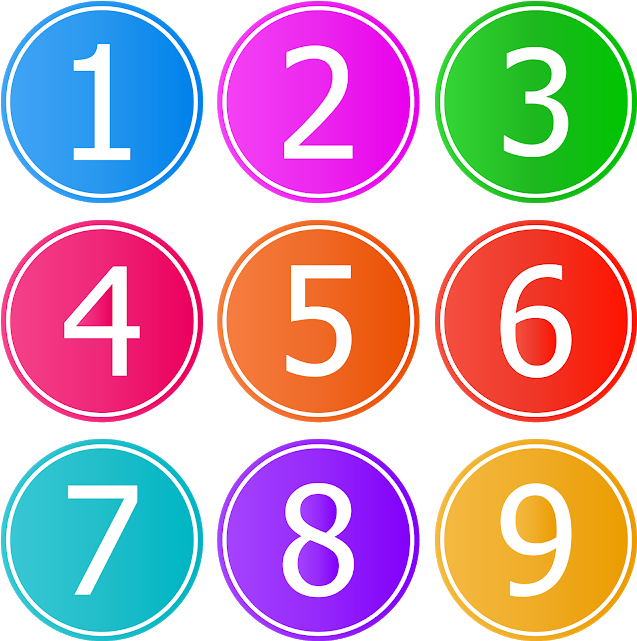
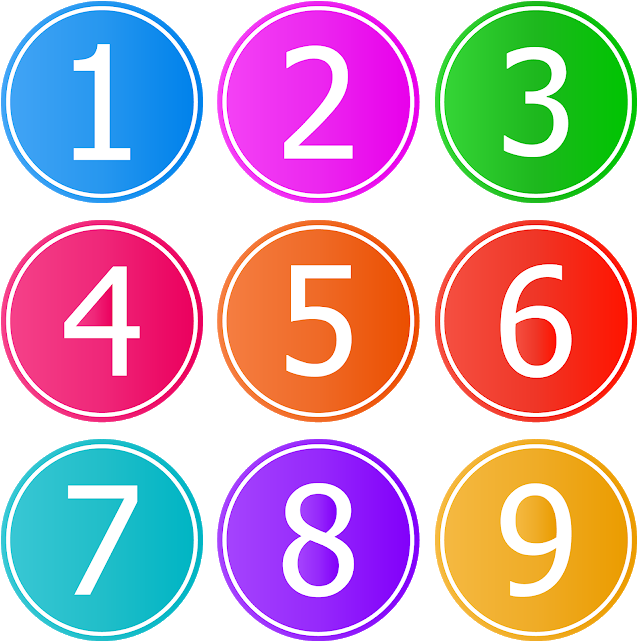
Make the bindless sample compile

diff --git a/Bindless/Sources/texture.c b/Bindless/Sources/texture.c
@@ -8,6 +8,7 @@
 
 #include <assert.h>
 #include <stdlib.h>
+#include <string.h>
 
 #ifdef SCREENSHOT
 #include "../../screenshot.h"
@@ -18,7 +19,7 @@ static kope_g5_command_list list;
 static vertex_in_buffer vertices;
 static kope_g5_buffer indices;
 static kope_g5_buffer image_buffer;
-static kope_g5_texture texture;
+static kope_g5_texture textures[9];
 static kope_g5_sampler sampler;
 static kope_g5_buffer constants;
 static everything_set everything;
@@ -45,15 +46,17 @@ static void update(void *data) {
 	constants_type_buffer_unlock(&constants);
 
 	if (first_update) {
-		kope_g5_image_copy_buffer source = {0};
-		source.buffer = &image_buffer;
-		source.bytes_per_row = kope_g5_device_align_texture_row_bytes(&device, 250 * 4);
+		for (int i = 0; i < 9; ++i) {
+			kope_g5_image_copy_buffer source = {0};
+			source.buffer = &image_buffer;
+			source.bytes_per_row = kope_g5_device_align_texture_row_bytes(&device, 250 * 4);
 
-		kope_g5_image_copy_texture destination = {0};
-		destination.texture = &texture;
-		destination.mip_level = 0;
+			kope_g5_image_copy_texture destination = {0};
+			destination.texture = &textures[i];
+			destination.mip_level = 0;
 
-		kope_g5_command_list_copy_buffer_to_texture(&list, &source, &destination, 250, 250, 1);
+			kope_g5_command_list_copy_buffer_to_texture(&list, &source, &destination, 639 / 3, 642 / 3, 1);
+		}
 		first_update = false;
 	}
 
@@ -106,26 +109,28 @@ int kickstart(int argc, char **argv) {
 	kope_g5_device_create_command_list(&device, &list);
 
 	kope_g5_buffer_parameters buffer_parameters = {0};
-	buffer_parameters.size = kope_g5_device_align_texture_row_bytes(&device, 250 * 4) * 250;
+	buffer_parameters.size = kope_g5_device_align_texture_row_bytes(&device, 639 * 4) * 642;
 	buffer_parameters.usage_flags = KOPE_G5_BUFFER_USAGE_CPU_WRITE;
 	kope_g5_device_create_buffer(&device, &buffer_parameters, &image_buffer);
 
 	kinc_image_t image;
-	kinc_image_init_from_file_with_stride(&image, kope_g5_buffer_lock_all(&image_buffer), "parrot.png",
-	                                      kope_g5_device_align_texture_row_bytes(&device, 250 * 4));
+	kinc_image_init_from_file_with_stride(&image, kope_g5_buffer_lock_all(&image_buffer), "numbers.png",
+	                                      kope_g5_device_align_texture_row_bytes(&device, 639 * 4));
 	kinc_image_destroy(&image);
 	kope_g5_buffer_unlock(&image_buffer);
 
-	kope_g5_texture_parameters texture_parameters = {0};
-	texture_parameters.width = 250;
-	texture_parameters.height = 250;
-	texture_parameters.depth_or_array_layers = 1;
-	texture_parameters.mip_level_count = 1;
-	texture_parameters.sample_count = 1;
-	texture_parameters.dimension = KOPE_G5_TEXTURE_DIMENSION_2D;
-	texture_parameters.format = KOPE_G5_TEXTURE_FORMAT_RGBA8_UNORM;
-	texture_parameters.usage = KONG_G5_TEXTURE_USAGE_SAMPLE | KONG_G5_TEXTURE_USAGE_COPY_DST;
-	kope_g5_device_create_texture(&device, &texture_parameters, &texture);
+	for (int i = 0; i < 9; ++i) {
+		kope_g5_texture_parameters texture_parameters = {0};
+		texture_parameters.width = 639 / 3;
+		texture_parameters.height = 642 / 3;
+		texture_parameters.depth_or_array_layers = 1;
+		texture_parameters.mip_level_count = 1;
+		texture_parameters.sample_count = 1;
+		texture_parameters.dimension = KOPE_G5_TEXTURE_DIMENSION_2D;
+		texture_parameters.format = KOPE_G5_TEXTURE_FORMAT_RGBA8_UNORM;
+		texture_parameters.usage = KONG_G5_TEXTURE_USAGE_SAMPLE | KONG_G5_TEXTURE_USAGE_COPY_DST;
+		kope_g5_device_create_texture(&device, &texture_parameters, &textures[i]);
+	}
 
 	kope_g5_sampler_parameters sampler_parameters = {0};
 	sampler_parameters.address_mode_u = KOPE_G5_ADDRESS_MODE_REPEAT;
@@ -183,10 +188,13 @@ int kickstart(int argc, char **argv) {
 	{
 		everything_parameters parameters = {0};
 		parameters.constants = &constants;
-		parameters.tex.texture = &texture;
-		parameters.tex.base_mip_level = 0;
-		parameters.tex.mip_level_count = 1;
-		parameters.tex.array_layer_count = 1;
+		parameters.textures = calloc(9, sizeof(kope_g5_texture_view));
+		for (int i = 0; i < 9; ++i) {
+			parameters.textures[i].texture = &textures[i];
+			parameters.textures[i].base_mip_level = 0;
+			parameters.textures[i].mip_level_count = 1;
+			parameters.textures[i].array_layer_count = 1;
+		}
 		parameters.sam = &sampler;
 		kong_create_everything_set(&device, &parameters, &everything);
 	}
